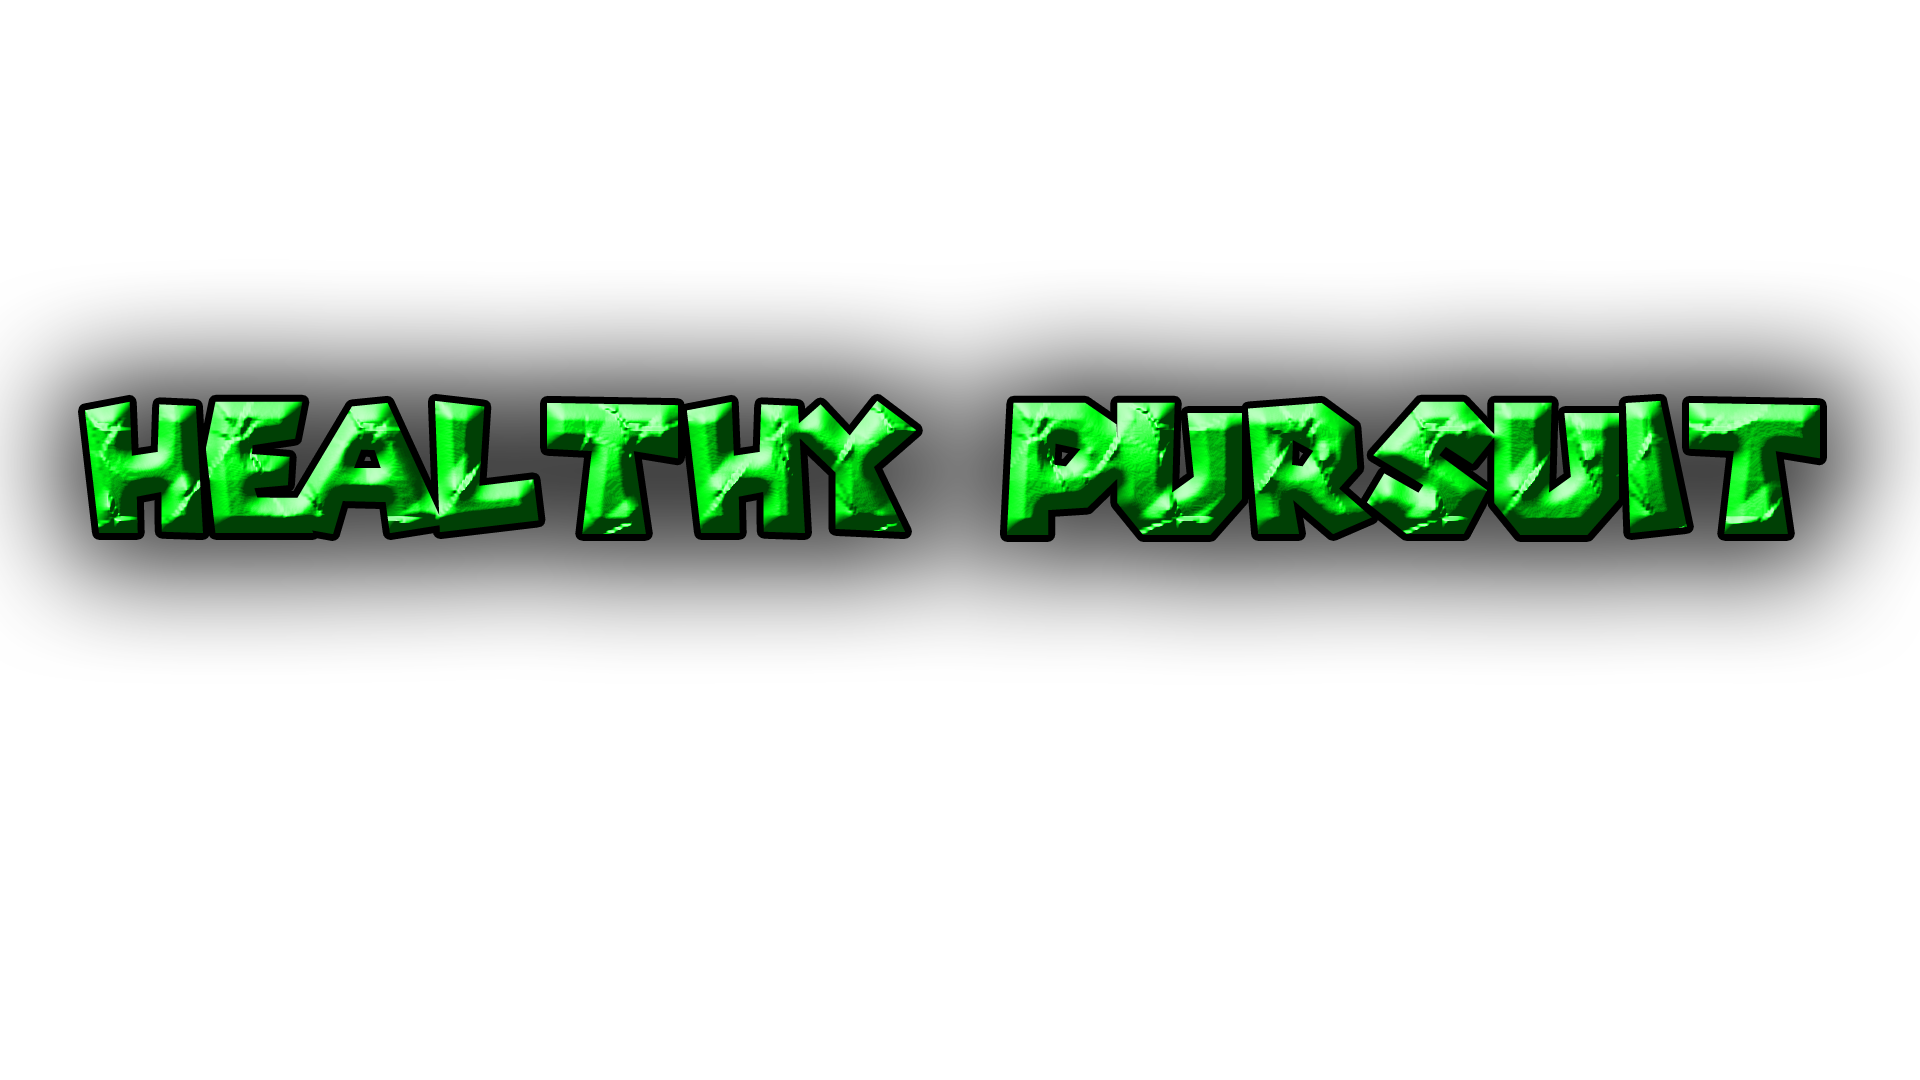
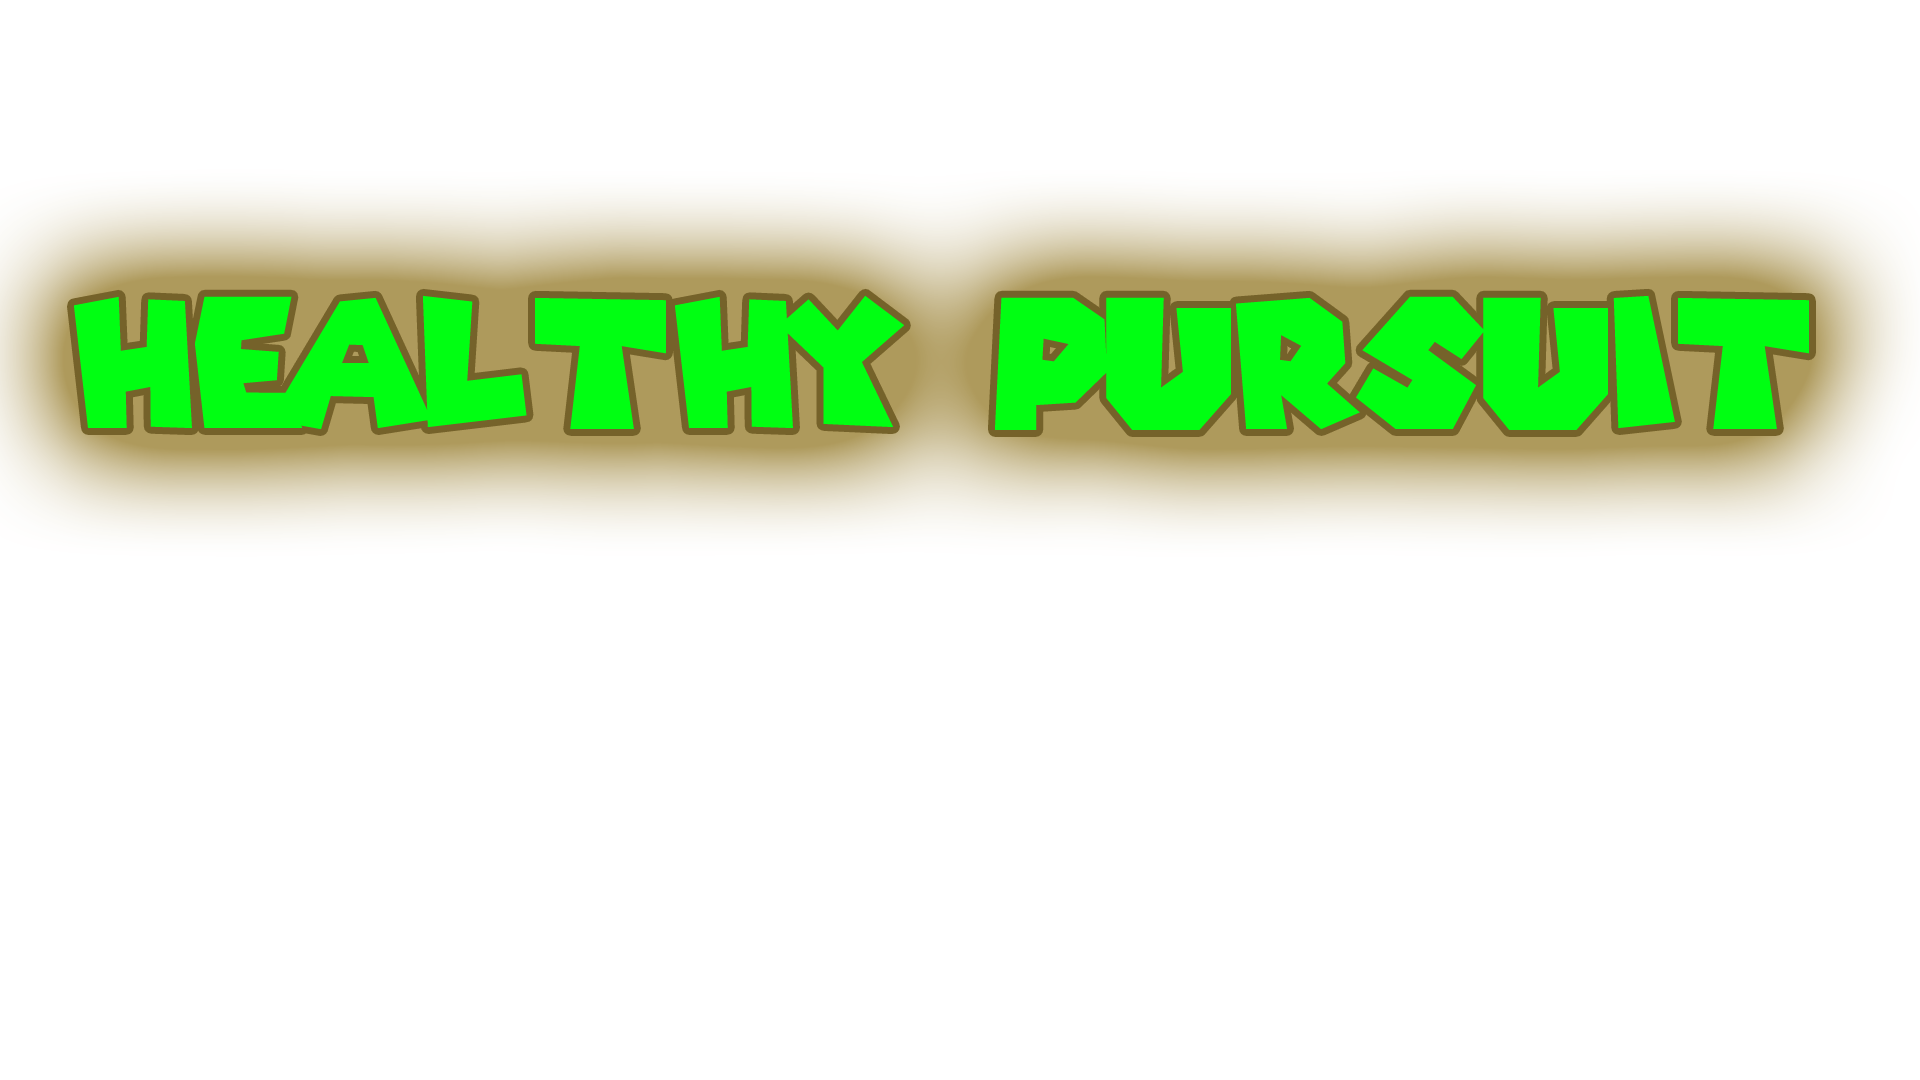
Title
Title on the main menu is now updated

diff --git a/core/src/com/hampton/game/demo/MainMenu.java b/core/src/com/hampton/game/demo/MainMenu.java
@@ -38,11 +38,11 @@ public class MainMenu extends GameScreen {
                 stage.getViewport().getScreenWidth()/2 - buttonFromImage.getWidth()/2,
                 (-buttonFromImage.getHeight() / 2) + 100);
         stage.addActor(buttonFromImage);
-        title=ActorUtils.createActorFromImage("main.jpg");
-        title.setSize(200,150);
+        title=ActorUtils.createActorFromImage("name.png");
+        title.setSize(500,500);
         title.setPosition(
-                stage.getViewport().getScreenWidth()/2 + title.getWidth()/2,
-                (title.getHeight() / 2) + 250);
+                stage.getViewport().getScreenWidth()/8 + title.getWidth()/8,
+                (title.getHeight() / 8) + 25);
         stage.addActor(title);
     }
 
